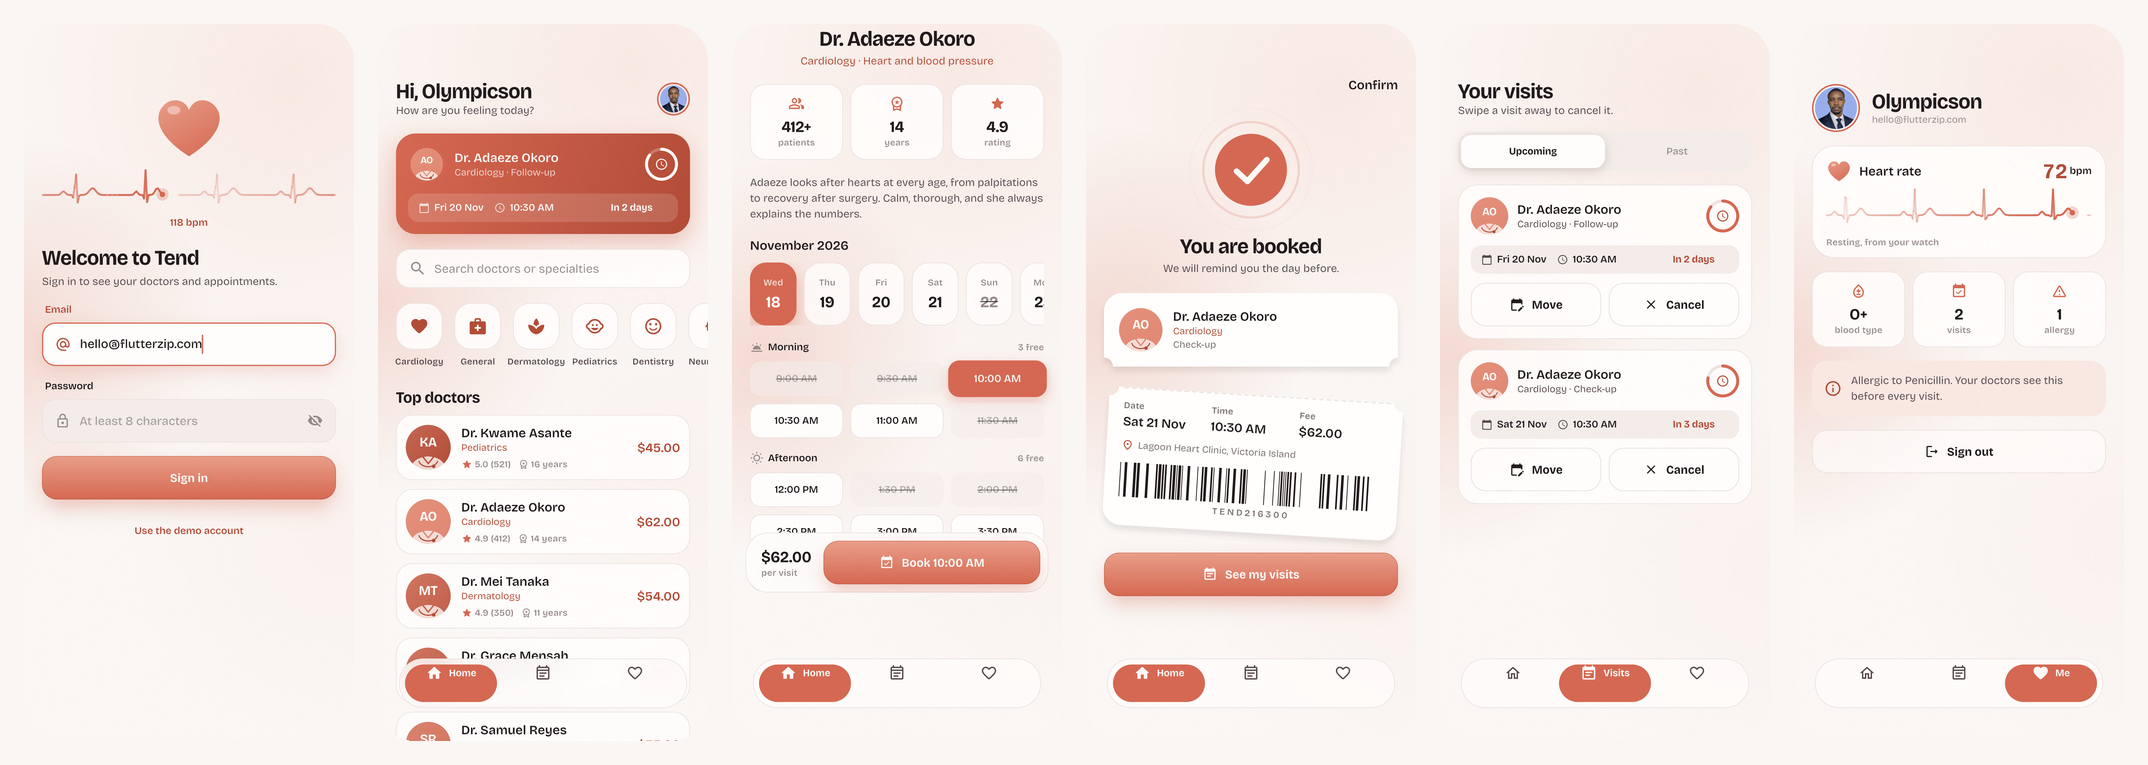
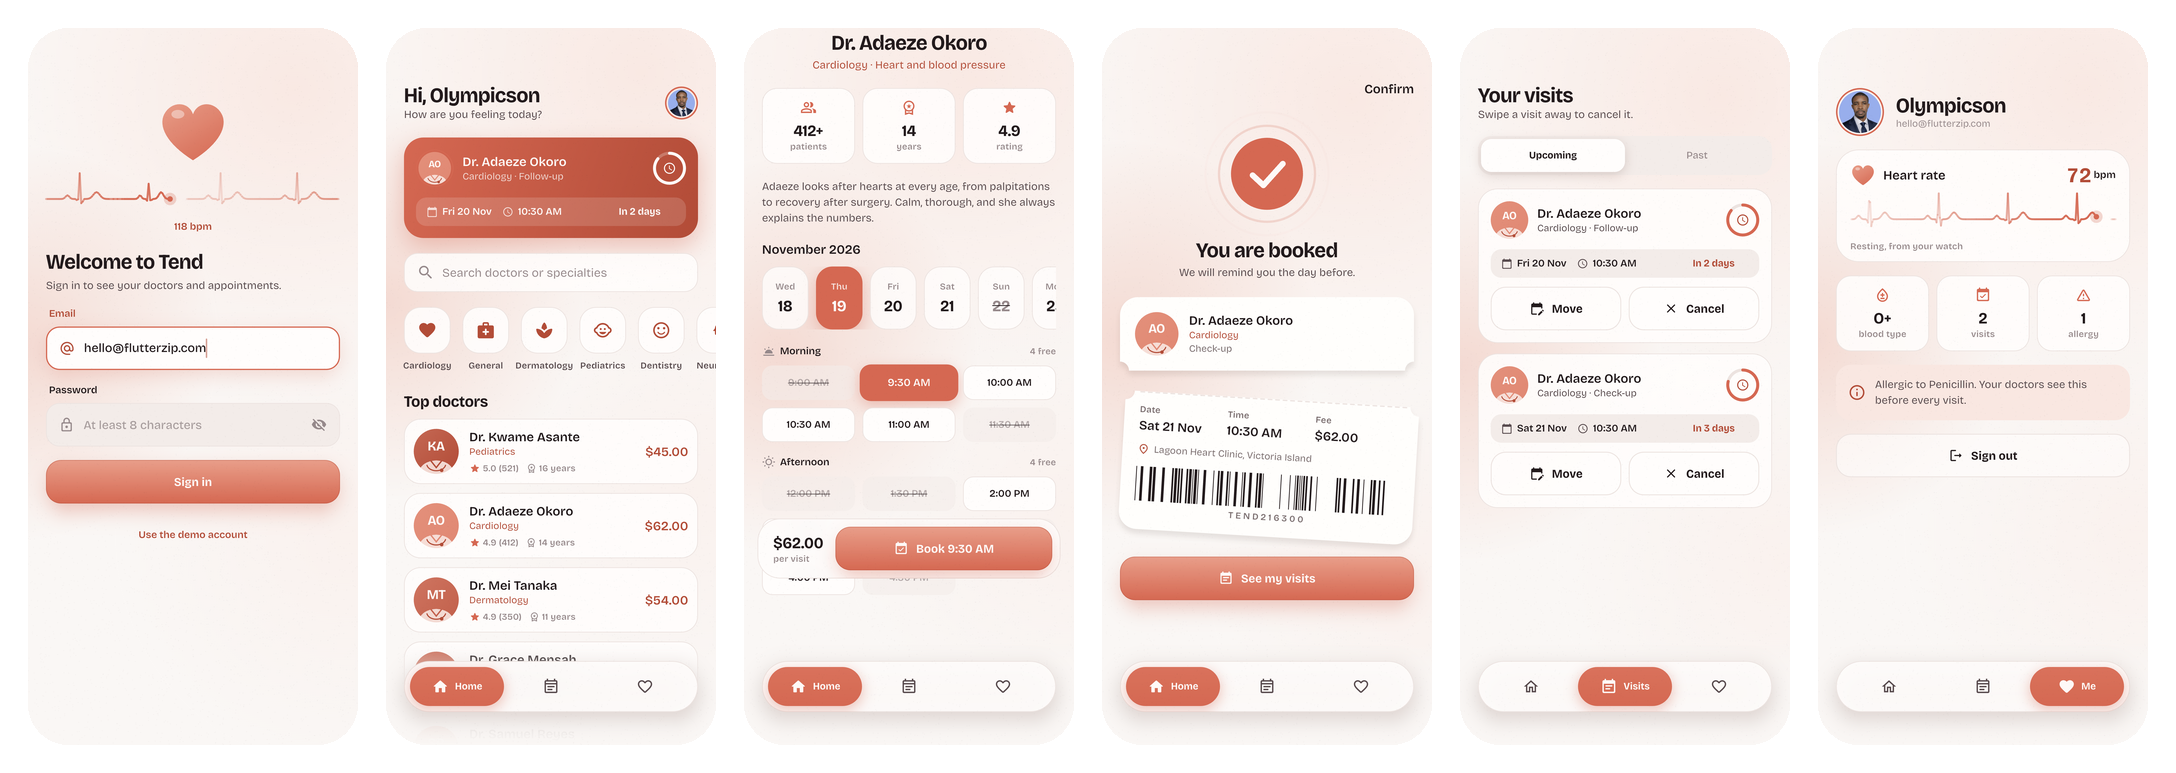
Tab bar: centred content, pill sized to its label, fade behind
The icon and label now sit in the middle of the pill, the pill is as
wide as its label needs, the picked icon springs, the bar is more solid
glass with a shadow, and lists fade out before they reach it.

diff --git a/lib/widgets/tab_bar.dart b/lib/widgets/tab_bar.dart
@@ -1,3 +1,4 @@
+import 'dart:math' as math;
 import 'dart:ui' as ui;
 
 import 'package:flutter/material.dart';
@@ -15,7 +16,9 @@ class TabItem {
 }
 
 /// A floating frosted bar. A pill of accent slides under the current tab,
-/// stretching as it travels.
+/// sized to fit its icon and label and stretching as it travels; the other
+/// tabs share what is left. Content scrolling underneath fades out before
+/// it reaches the bar.
 class GlassTabBar extends StatelessWidget {
   const GlassTabBar({
     super.key,
@@ -28,70 +31,105 @@ class GlassTabBar extends StatelessWidget {
   final int index;
   final ValueChanged<int> onTap;
 
+  static const _height = 68.0, _inset = 7.0, _icon = 23.0, _gap = 8.0, _pad = 18.0;
+
   @override
   Widget build(BuildContext context) {
     final p = context.palette;
-    return Padding(
-      padding: EdgeInsets.fromLTRB(
-        28,
-        0,
-        28,
-        MediaQuery.paddingOf(context).bottom + 10,
+    final label = Theme.of(context).textTheme.labelMedium!.copyWith(fontWeight: FontWeight.w700);
+    final scaler = MediaQuery.textScalerOf(context);
+    final bottom = MediaQuery.paddingOf(context).bottom;
+    // How wide each tab's pill needs to be to show its icon and label.
+    final needs = [
+      for (final item in items)
+        _icon + _gap + _pad * 2 + (TextPainter(text: TextSpan(text: item.label, style: label), textDirection: TextDirection.ltr, textScaler: scaler, maxLines: 1)..layout()).width,
+    ];
+
+    return DecoratedBox(
+      // Lists fade into the paper before they reach the bar.
+      decoration: BoxDecoration(
+        gradient: LinearGradient(
+          begin: Alignment.topCenter,
+          end: Alignment.bottomCenter,
+          colors: [p.paper.withValues(alpha: 0), p.paper.withValues(alpha: 0.85), p.paper],
+          stops: const [0, 0.45, 1],
+        ),
       ),
-      child: ClipRRect(
-        borderRadius: BorderRadius.circular(32),
-        child: BackdropFilter(
-          filter: ui.ImageFilter.blur(sigmaX: 22, sigmaY: 22),
-          child: Container(
-            height: 66,
-            decoration: BoxDecoration(
-              color: p.card.withValues(alpha: 0.72),
-              borderRadius: BorderRadius.circular(32),
-              border: Border.all(color: p.line),
-            ),
-            padding: const EdgeInsets.all(7),
-            child: LayoutBuilder(
-              builder: (context, box) {
-                final w = box.maxWidth / items.length;
-                return Stack(
-                  children: [
-                    TweenAnimationBuilder<double>(
-                      tween: Tween(end: index.toDouble()),
-                      duration: Motion.medium,
-                      curve: Motion.spring,
-                      builder: (_, v, _) {
-                        // Stretch while moving, by how far from a whole tab it is.
-                        final stretch =
-                            1 - ((v - v.round()).abs() * 2 - 1).abs();
-                        return Positioned(
-                          left: v * w - stretch * 8,
-                          width: w + stretch * 16,
-                          top: 0,
-                          bottom: 0,
-                          child: Container(
-                            decoration: BoxDecoration(
-                              color: p.accent,
-                              borderRadius: BorderRadius.circular(26),
+      child: Padding(
+        padding: EdgeInsets.fromLTRB(24, 22, 24, bottom + 10),
+        child: DecoratedBox(
+          decoration: BoxDecoration(
+            borderRadius: BorderRadius.circular(_height / 2),
+            boxShadow: [BoxShadow(color: p.shadow, blurRadius: 24, offset: const Offset(0, 10))],
+          ),
+          child: ClipRRect(
+            borderRadius: BorderRadius.circular(_height / 2),
+            child: BackdropFilter(
+              filter: ui.ImageFilter.blur(sigmaX: 24, sigmaY: 24),
+              child: Container(
+                height: _height,
+                padding: const EdgeInsets.all(_inset),
+                decoration: BoxDecoration(
+                  color: p.card.withValues(alpha: 0.88),
+                  borderRadius: BorderRadius.circular(_height / 2),
+                  border: Border.all(color: p.line),
+                ),
+                child: LayoutBuilder(
+                  builder: (context, box) => TweenAnimationBuilder<double>(
+                    tween: Tween(end: index.toDouble()),
+                    duration: Motion.medium,
+                    curve: Motion.spring,
+                    builder: (_, v, _) {
+                      final n = items.length;
+                      final w = box.maxWidth;
+                      // How close each tab is to being the current one (they
+                      // sum to one while the pill slides between two).
+                      final near = [for (var i = 0; i < n; i++) (1 - (v - i).abs()).clamp(0.0, 1.0)];
+                      final extra = [for (var i = 0; i < n; i++) math.max(0.0, (math.min(needs[i], w * 0.6) - w / n) * n / (n - 1))];
+                      final grow = [for (var i = 0; i < n; i++) extra[i] * near[i]];
+                      final base = (w - grow.fold(0.0, (a, b) => a + b)) / n;
+                      final widths = [for (var i = 0; i < n; i++) base + grow[i]];
+                      final k = v.floor().clamp(0, n - 1);
+                      final f = (v - k).clamp(0.0, 1.0);
+                      var left = 0.0;
+                      for (var i = 0; i < k; i++) {
+                        left += widths[i];
+                      }
+                      left += f * widths[k];
+                      final width = k + 1 < n ? widths[k] + (widths[k + 1] - widths[k]) * f : widths[k];
+                      // Stretch while moving, by how far from a whole tab it is.
+                      final stretch = 1 - ((v - v.round()).abs() * 2 - 1).abs();
+                      return Stack(
+                        fit: StackFit.expand,
+                        children: [
+                          Positioned(
+                            left: left - stretch * 6,
+                            width: width + stretch * 12,
+                            top: 0,
+                            bottom: 0,
+                            child: DecoratedBox(
+                              decoration: BoxDecoration(
+                                borderRadius: BorderRadius.circular(_height / 2),
+                                gradient: LinearGradient(begin: Alignment.topCenter, end: Alignment.bottomCenter, colors: [Color.lerp(p.accent, p.accentGlow, 0.18)!, p.accent]),
+                                boxShadow: [BoxShadow(color: p.accent.withValues(alpha: 0.35), blurRadius: 14, offset: const Offset(0, 5))],
+                              ),
                             ),
                           ),
-                        );
-                      },
-                    ),
-                    Row(
-                      children: [
-                        for (var i = 0; i < items.length; i++)
-                          Expanded(
-                            child: _Tab(
-                              item: items[i],
-                              active: i == index,
-                              onTap: () => onTap(i),
-                            ),
+                          Row(
+                            children: [
+                              for (var i = 0; i < n; i++)
+                                SizedBox(
+                                  width: widths[i],
+                                  child: _Tab(item: items[i], active: i == index, label: label, onTap: () => onTap(i)),
+                                ),
+                            ],
                           ),
-                      ],
-                    ),
-                  ],
-                );
-              },
+                        ],
+                      );
+                    },
+                  ),
+                ),
+              ),
             ),
           ),
         ),
@@ -101,21 +139,17 @@ class GlassTabBar extends StatelessWidget {
 }
 
 class _Tab extends StatelessWidget {
-  const _Tab({required this.item, required this.active, required this.onTap});
+  const _Tab({required this.item, required this.active, required this.label, required this.onTap});
 
   final TabItem item;
   final bool active;
+  final TextStyle label;
   final VoidCallback onTap;
 
   @override
   Widget build(BuildContext context) {
     final p = context.palette;
     final color = active ? p.onAccent : p.inkSoft;
-    final icon = Icon(
-      active ? item.activeIcon : item.icon,
-      color: color,
-      size: 23,
-    );
     return Semantics(
       button: true,
       selected: active,
@@ -127,70 +161,65 @@ class _Tab extends StatelessWidget {
           HapticFeedback.selectionClick();
           onTap();
         },
-        child: Row(
-          mainAxisAlignment: MainAxisAlignment.center,
-          children: [
-            Stack(
-              clipBehavior: Clip.none,
-              children: [
-                icon,
-                if (item.badge > 0)
-                  Positioned(
-                    right: -9,
-                    top: -6,
-                    child: TweenAnimationBuilder<double>(
-                      key: ValueKey(item.badge),
-                      tween: Tween(begin: 0.4, end: 1),
-                      duration: Motion.medium,
-                      curve: Motion.spring,
-                      builder: (_, s, child) =>
-                          Transform.scale(scale: s, child: child),
-                      child: Container(
-                        constraints: const BoxConstraints(minWidth: 18),
-                        height: 18,
-                        padding: const EdgeInsets.symmetric(horizontal: 5),
-                        decoration: BoxDecoration(
-                          color: active ? p.onAccent : p.accent,
-                          borderRadius: BorderRadius.circular(9),
-                          border: Border.all(color: p.card, width: 1.5),
-                        ),
-                        alignment: Alignment.center,
-                        child: Text(
-                          '${item.badge}',
-                          style: TextStyle(
-                            fontFamily: 'Bricolage',
-                            fontSize: 10.5,
-                            fontWeight: FontWeight.w800,
-                            color: active ? p.accentDeep : p.onAccent,
+        child: Center(
+          child: Row(
+            mainAxisSize: MainAxisSize.min,
+            children: [
+              // The icon gives a small spring when its tab is picked.
+              TweenAnimationBuilder<double>(
+                key: ValueKey(active),
+                tween: Tween(begin: active ? 0.7 : 1, end: 1),
+                duration: Motion.long,
+                curve: Curves.elasticOut,
+                builder: (_, s, child) => Transform.scale(scale: s, child: child),
+                child: Stack(
+                  clipBehavior: Clip.none,
+                  children: [
+                    Icon(active ? item.activeIcon : item.icon, color: color, size: GlassTabBar._icon),
+                    if (item.badge > 0)
+                      Positioned(
+                        right: -9,
+                        top: -7,
+                        child: TweenAnimationBuilder<double>(
+                          key: ValueKey(item.badge),
+                          tween: Tween(begin: 0.4, end: 1),
+                          duration: Motion.medium,
+                          curve: Motion.spring,
+                          builder: (_, s, child) => Transform.scale(scale: s, child: child),
+                          child: Container(
+                            constraints: const BoxConstraints(minWidth: 18),
+                            height: 18,
+                            padding: const EdgeInsets.symmetric(horizontal: 5),
+                            decoration: BoxDecoration(
+                              color: active ? p.onAccent : p.accent,
+                              borderRadius: BorderRadius.circular(9),
+                              border: Border.all(color: active ? p.accent : p.card, width: 1.5),
+                            ),
+                            alignment: Alignment.center,
+                            child: Text(
+                              '${item.badge}',
+                              style: TextStyle(fontFamily: 'Bricolage', fontSize: 10.5, fontWeight: FontWeight.w800, color: active ? p.accentDeep : p.onAccent),
+                            ),
                           ),
                         ),
                       ),
-                    ),
-                  ),
-              ],
-            ),
-            Flexible(
-              child: AnimatedSize(
-                duration: Motion.medium,
-                curve: Motion.settle,
-                child: active
-                    ? Padding(
-                        padding: const EdgeInsets.only(left: 8),
-                        child: Text(
-                          item.label,
-                          maxLines: 1,
-                          overflow: TextOverflow.ellipsis,
-                          style: Theme.of(context).textTheme.labelMedium!
-                              .copyWith(
-                                color: color,
-                                fontWeight: FontWeight.w700,
-                              ),
-                        ),
-                      )
-                    : const SizedBox.shrink(),
+                  ],
+                ),
               ),
-            ),
-          ],
+              Flexible(
+                child: AnimatedSize(
+                  duration: Motion.medium,
+                  curve: Motion.settle,
+                  child: active
+                      ? Padding(
+                          padding: const EdgeInsets.only(left: GlassTabBar._gap),
+                          child: Text(item.label, maxLines: 1, overflow: TextOverflow.clip, softWrap: false, style: label.copyWith(color: color)),
+                        )
+                      : const SizedBox.shrink(),
+                ),
+              ),
+            ],
+          ),
         ),
       ),
     );

diff --git a/integration_test/shots_test.dart b/integration_test/shots_test.dart
@@ -50,6 +50,10 @@ void main() {
     await settle(t, 1500);
     await t.drag(find.byType(ListView).last, const Offset(0, -420));
     await settle(t, 800);
+    // Tomorrow, so there are open morning slots whatever the time now.
+    final days = find.byWidgetPredicate((w) => w is Semantics && w.properties.button == true && RegExp(r'^(Mon|Tue|Wed|Thu|Fri|Sat) ').hasMatch(w.properties.label ?? ''));
+    await t.tap(days.at(1));
+    await settle(t, 600);
     await t.tap(find.byWidgetPredicate((w) => w is Semantics && (w.properties.label ?? '').endsWith('AM') && w.properties.enabled == true).first);
     await shot('doctor', 1200);
     homeNavigator.currentState!.pop();
